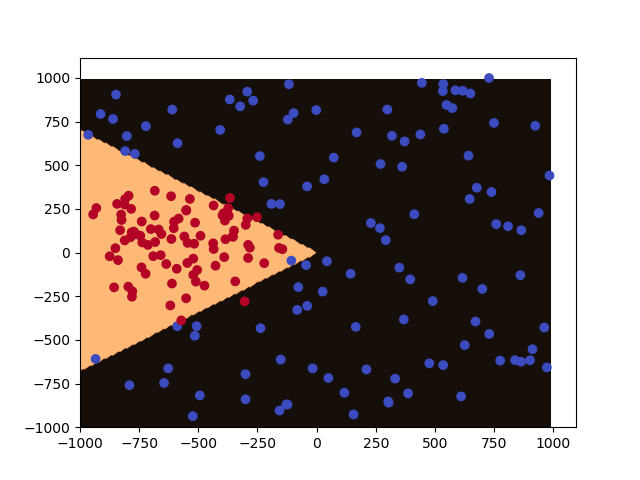
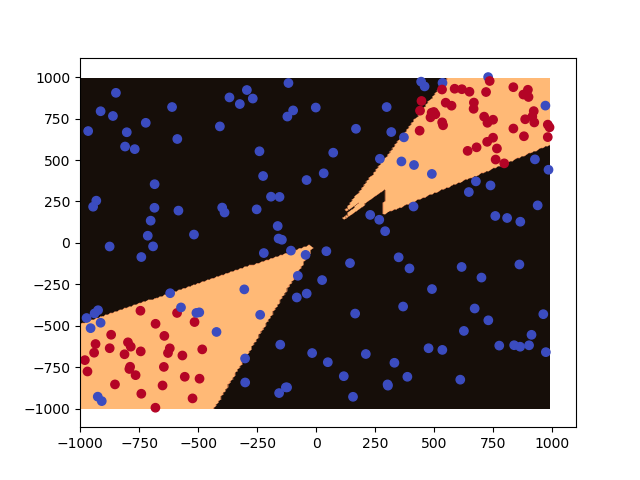
for weining

diff --git a/mid_point_active_learning.py b/mid_point_active_learning.py
@@ -225,8 +225,7 @@ def generate_accuracy(inputX, inputY, train_data_file, test_data_file, formu, ca
                               train_set_X, train_set_Y, type, name_list, mock)
 
             # append_extrapolated_points(sess, aggregated_network)
-            append_critical_point(aggregated_network, formu, mock, name_list, sess,
-                                  to_be_appended_critical_points_number, train_set_X, train_set_Y, type, mock)
+            append_critical_point(aggregated_network, formu, mock, name_list, sess,train_set_X, train_set_Y, type, mock,10)
             print("new train size after mid point", len(train_set_X), len(train_set_Y))
 
             label_0, label_1 = util.data_partition(train_set_X, train_set_Y)
@@ -245,7 +244,7 @@ def generate_accuracy(inputX, inputY, train_data_file, test_data_file, formu, ca
     return result
 
 
-def append_critical_point(X, sess, aggregated_network, formu, to_be_appended_critical_points_number,
+def append_critical_point(X, sess, aggregated_network, formu,
                           train_set_X, train_set_Y, type, name_list, mock, n):
 
     # pass in argument n
@@ -255,9 +254,32 @@ def append_critical_point(X, sess, aggregated_network, formu, to_be_appended_cri
     # move points away from cluster center in small gradient direction to get new points(if any)
     # re-train the model
     n = 10
+
     centers, n_largest = cluster.cluster_points(train_set_X, n)
+    gradient=tf.gradients(aggregated_network.probabilty,aggregated_network.X)
+    g=sess.run(gradient,feed_dict={X:n_largest})[0]
 
+    decided_gradient=br.decide_all_gradients_for_boundary_remaining(aggregated_network.X,g,n_largest,aggregated_network.probability,sess)
+    outputX=[]
+    outputY=[]
+    std_dev=util.calculate_std_dev(n_largest)
+    step = random.uniform(std_dev / 2.0, std_dev)
+    for i in range(len(n_largest)):
+        gradient_length = util.calculate_vector_size(g[i])
+        tmp_point = []
+        for j in range(len(n_largest[i])):
+            tmp_value = n_largest[i][j] + g[i][j] * (step / gradient_length)
+            tmp_point.append(tmp_value)
+        input_point = []
+        input_point.append(tmp_point)
 
+        result=sess.run(aggregated_network.probability,feed_dict={aggregated_network.X:input_point})
+        if result[0][0]<0.4 or result[0][0]>0.6:
+            outputX.append(input_point[0])
+            outputY.append(result[0])
+
+    print (outputX)
+    print (outputY)
 def generate_random_points(train_set_X,train_set_Y,to_be_appended_critical_points_number):
     length=len(train_set_X)-1
     random_index_list=[]

diff --git a/specific_formula_evaluation.py b/specific_formula_evaluation.py
@@ -79,9 +79,9 @@ train_set_Y = []
 test_set_X = []
 test_set_Y = []
 
-benchmark.generate_accuracy(train_data_file, test_data_file, learning_rate, training_epochs, lower_bound, upper_bound)
+# benchmark.generate_accuracy(train_data_file, test_data_file, learning_rate, training_epochs, lower_bound, upper_bound)
 
-# mid_list = mal.generate_accuracy([],[],train_data_file, test_data_file, f, category, learning_rate, training_epochs, lower_bound, upper_bound, False, "", "", True)
+mid_list = mal.generate_accuracy([],[],train_data_file, test_data_file, f, category, learning_rate, training_epochs, lower_bound, upper_bound, False, "", "", True)
 
 # mid_list = mal.generate_accuracy([], [], train_data_file, test_data_file, f, category, learning_rate, training_epochs, lower_bound, upper_bound, parts_num, True, "", "", True)
 # tf.reset_default_graph()
